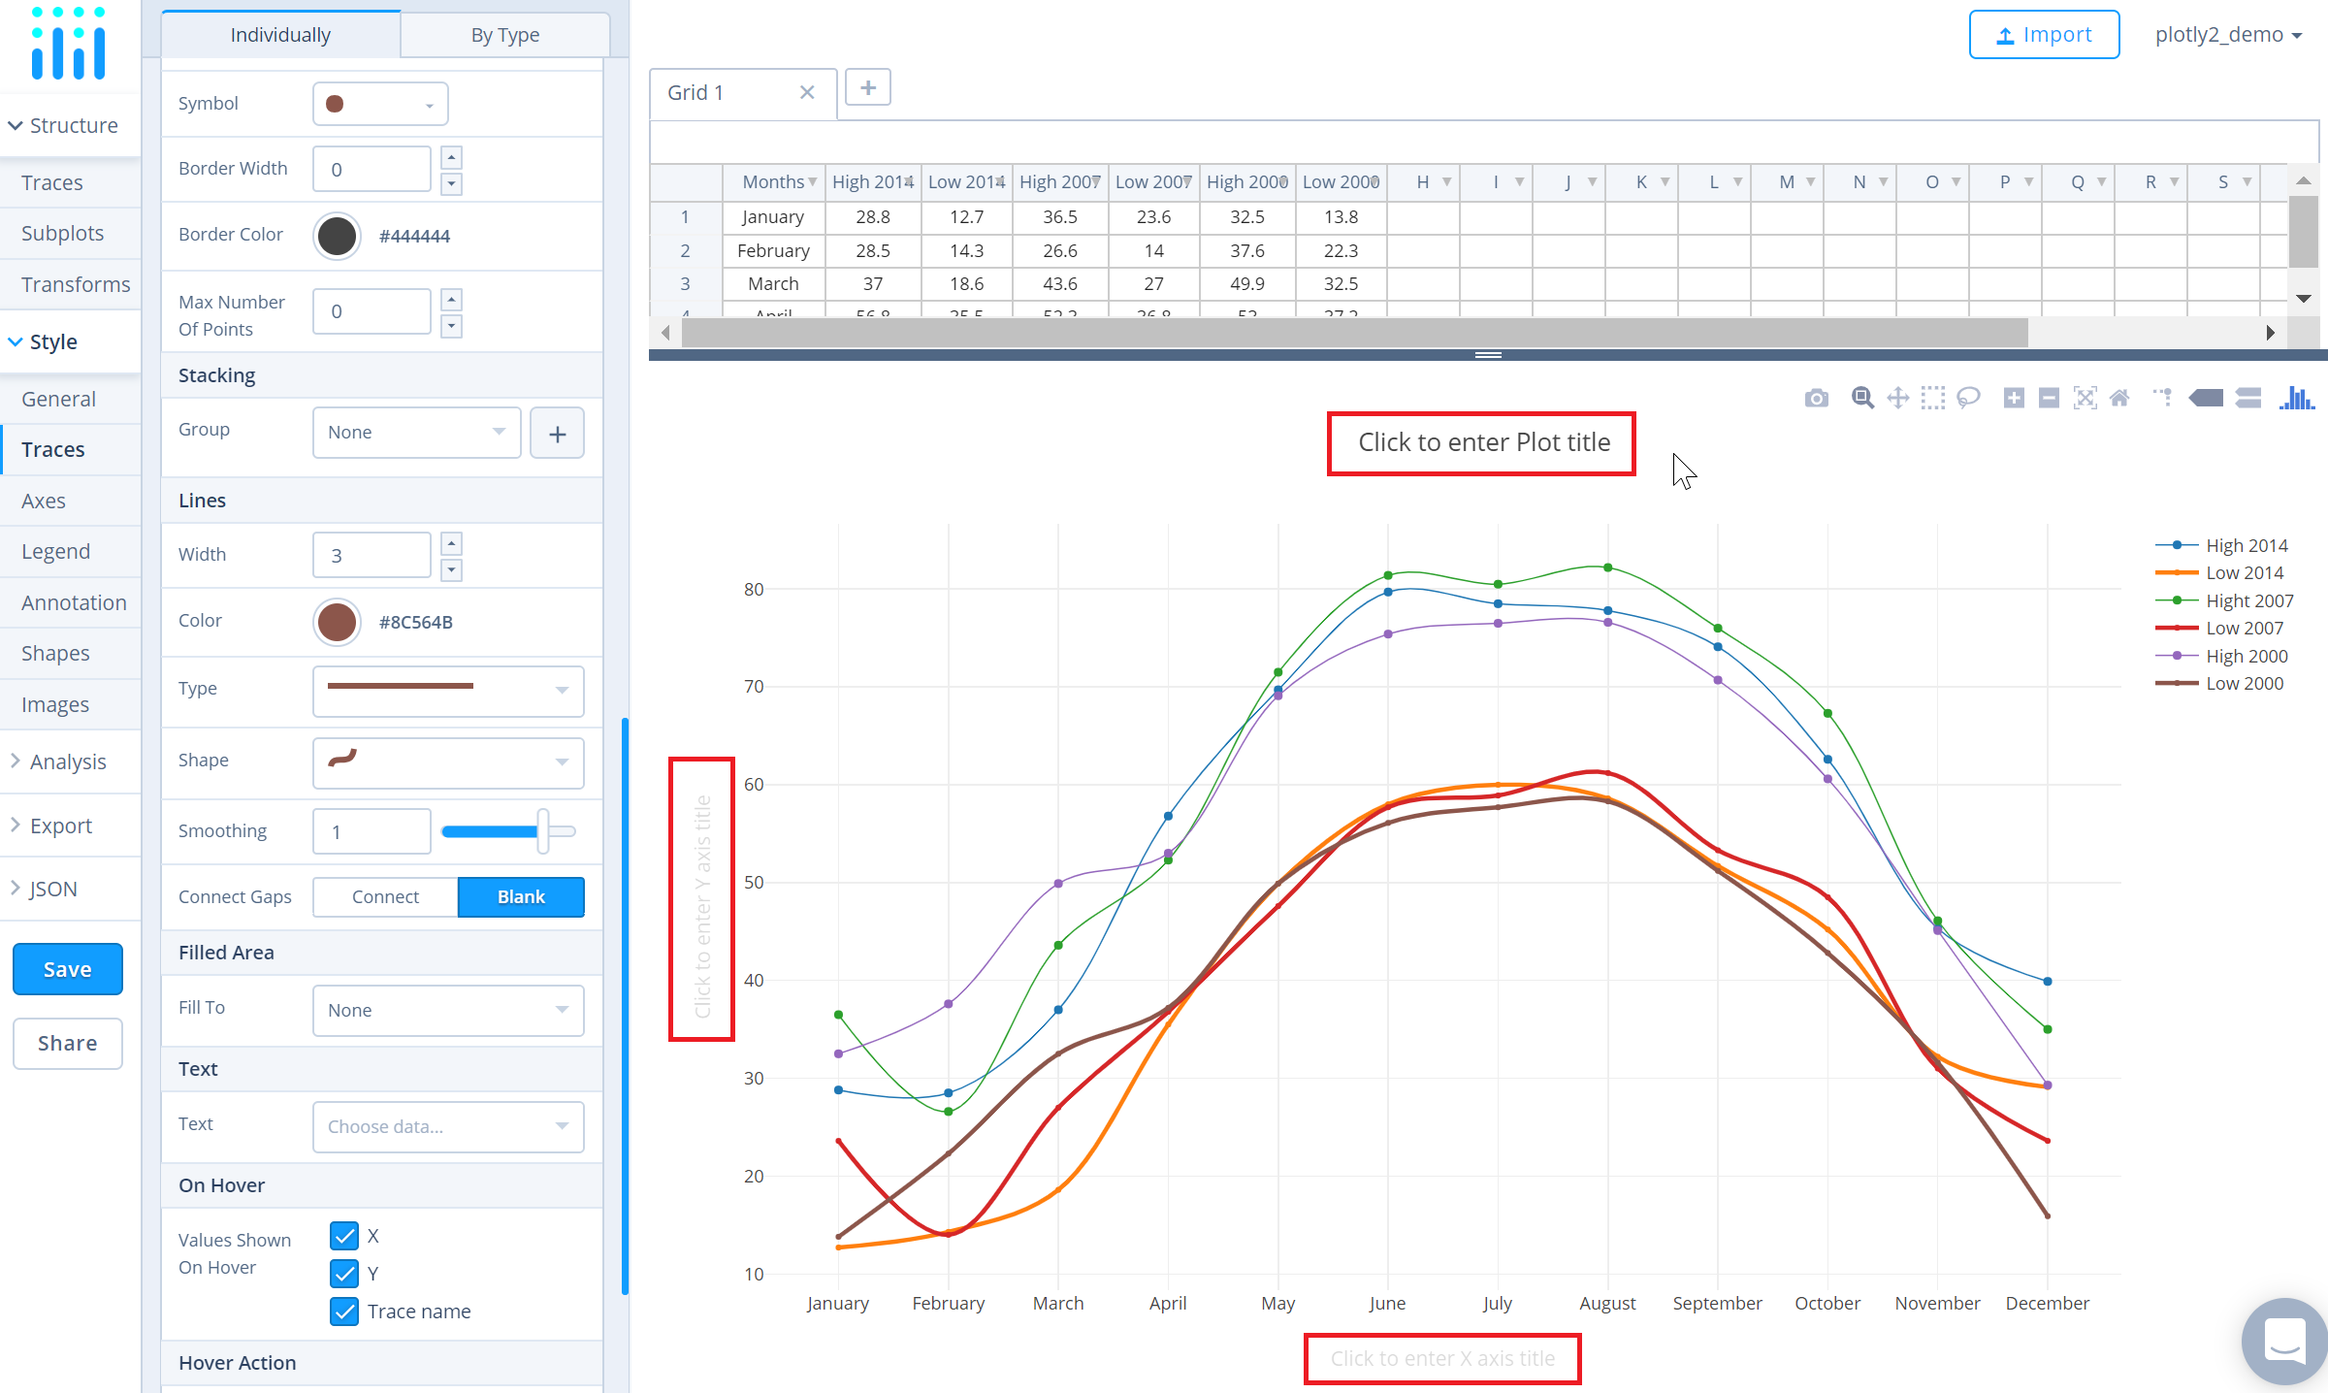
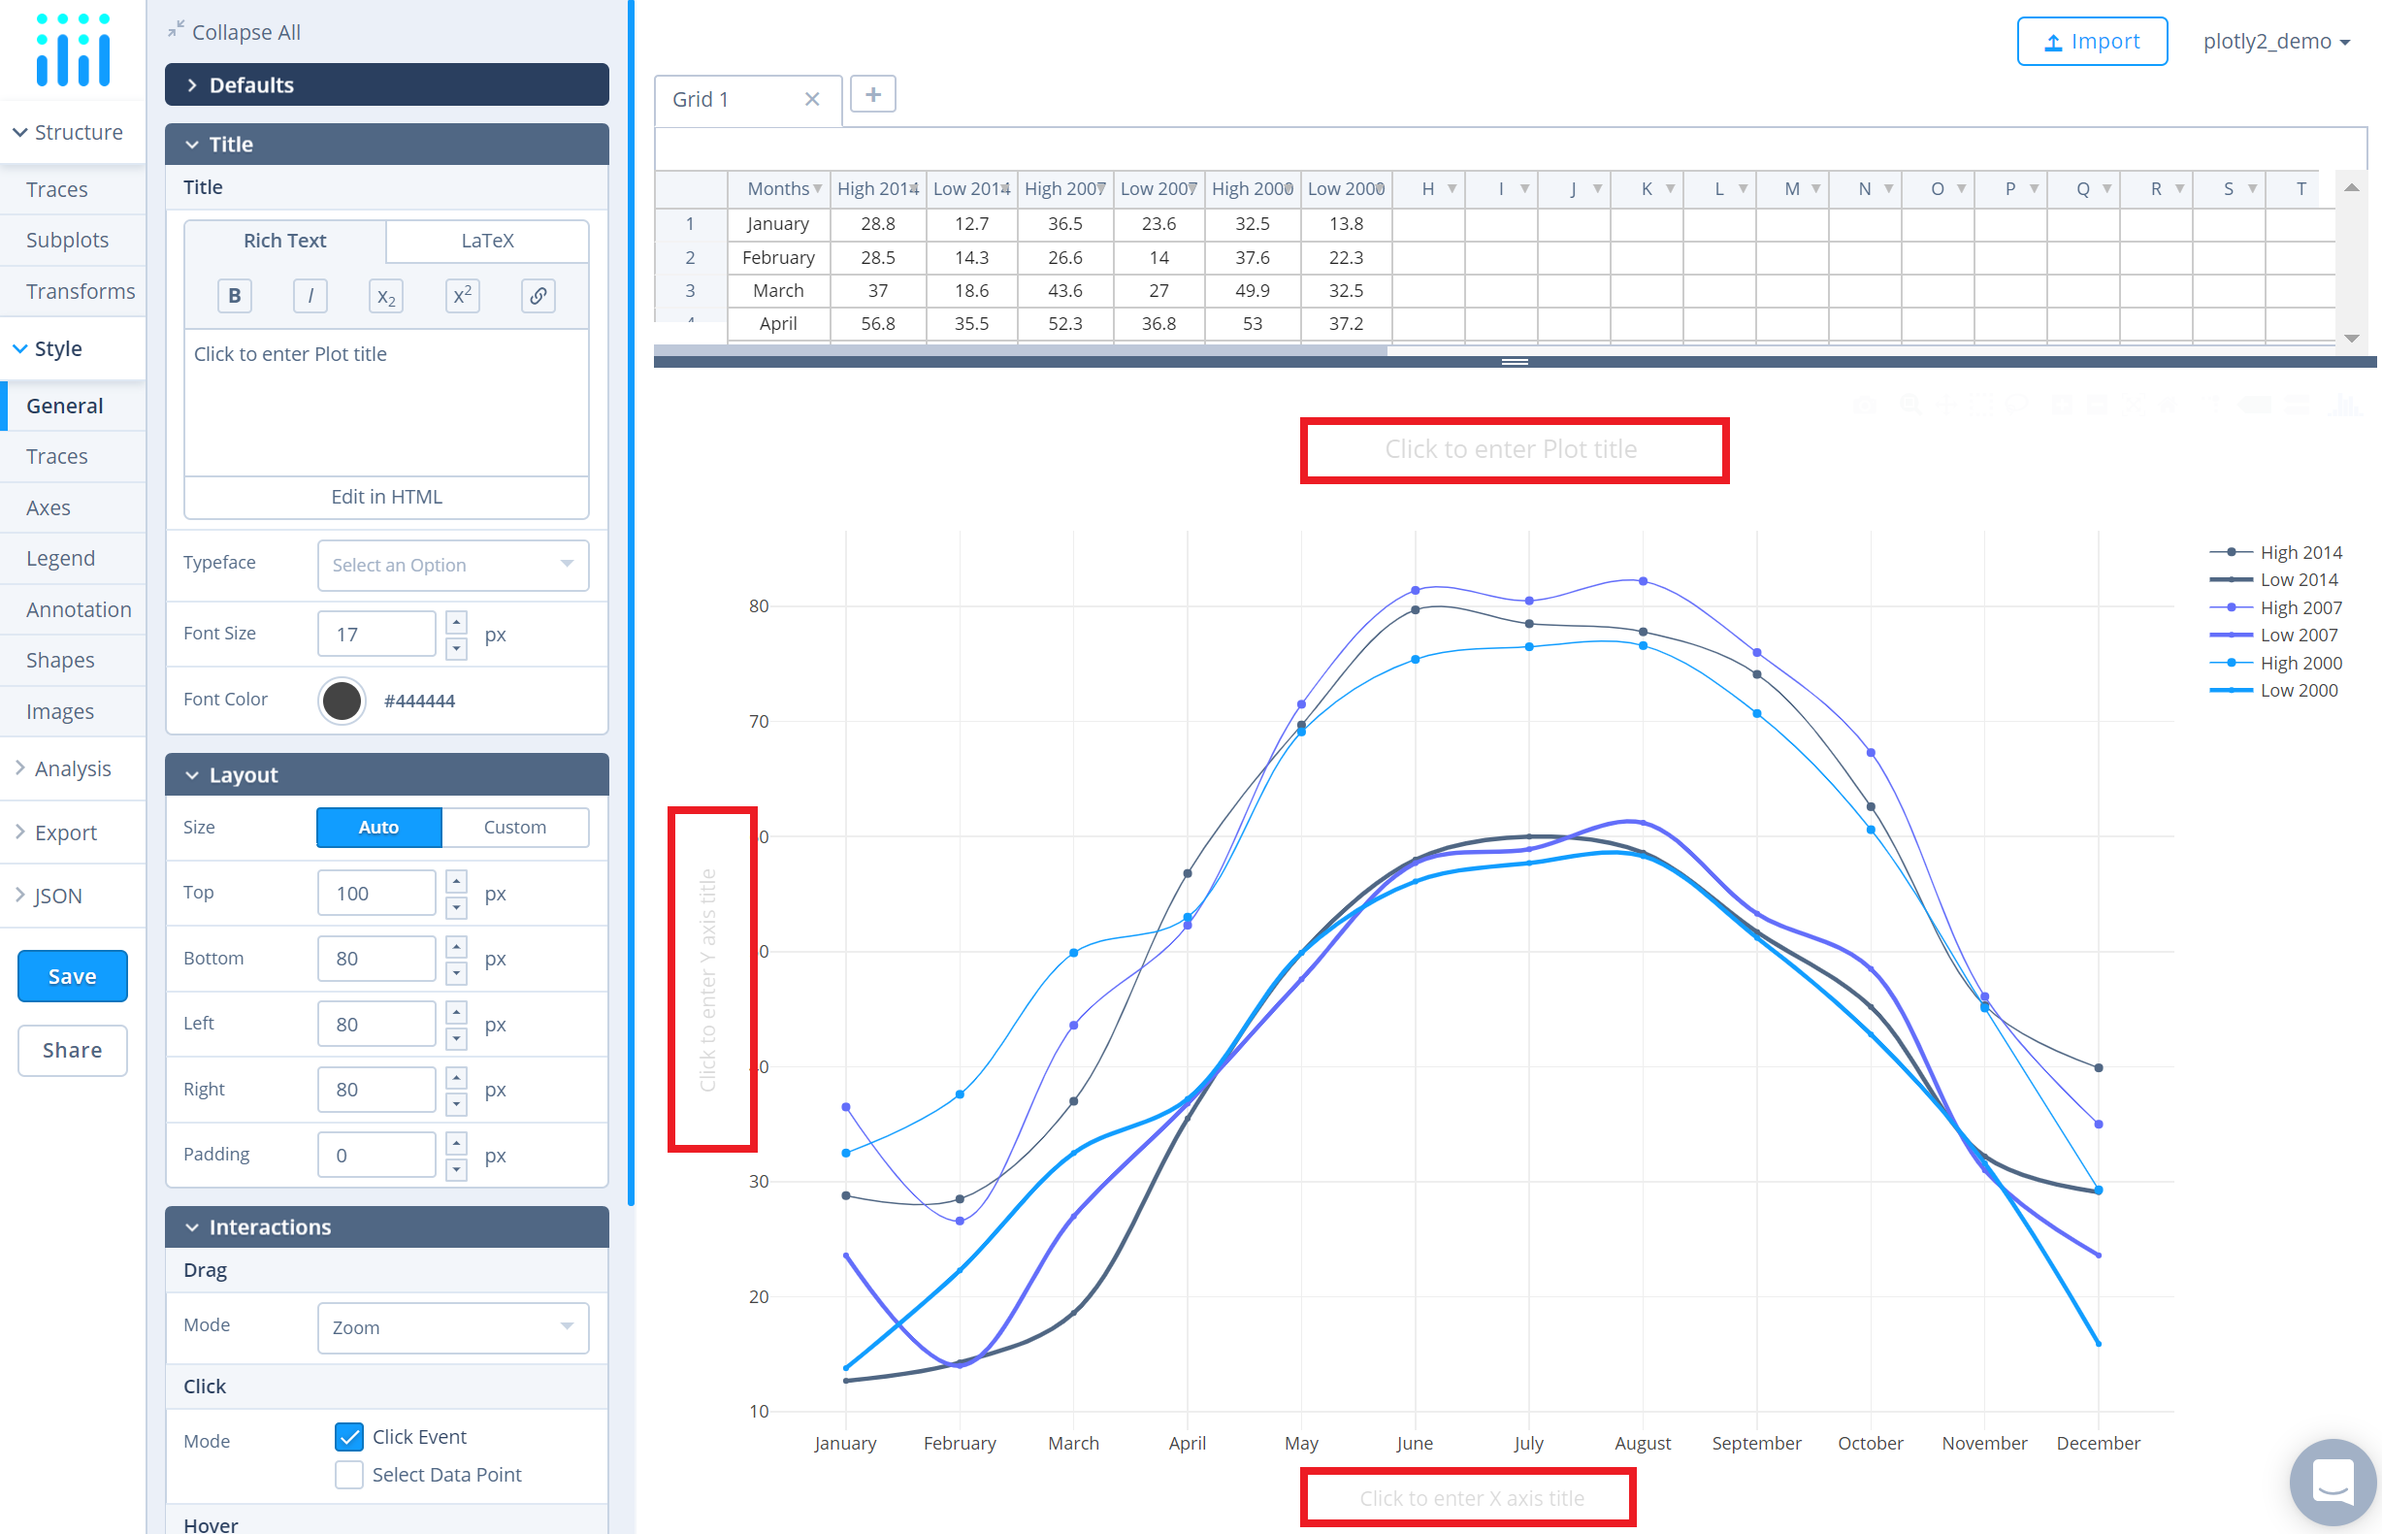
updated trace colors, and corrections from review

diff --git a/_posts/basic/2016-07-14-how-to-make-a-line-and-scatter-plot.md b/_posts/basic/2016-07-14-how-to-make-a-line-and-scatter-plot.md
@@ -53,9 +53,9 @@ steps:
     - copy: "To change the properties of the traces, go to the 'Traces' section under the 'Style' menu."
     - copy: "To set the trace names, type the name in the textbox provided under 'Name' property for each trace. Note that updating the trace name will update the legends as well."
       img: "![Trace Name](../static/images/line-graph-and-scatter-plot-with-excel/linescatter-trace-name.gif)"
-    - copy: "To add a line that connects the markers in a scatter trace, click the checkbox corresponding to 'Lines' under the 'Display' option."
+    - copy: "To display a line that connects the markers in a scatter trace, click the checkbox corresponding to 'Lines' under the 'Display' option."
       img: "![Display Lines](../static/images/line-graph-and-scatter-plot-with-excel/add-lines-to-scatter.png)"
-    - copy: "Similarly, to add markers that represent the data points in a line trace, click the checkbox corresponding to 'Points' under the 'Display' option."
+    - copy: "Similarly, to display markers along the line, click the checkbox corresponding to 'Points' under the 'Display' option."
       img: "![Display Points](../static/images/line-graph-and-scatter-plot-with-excel/add-points-to-line.png)"
     - copy: "To change the color of the traces, click on the color palette as seen below. "
       img: "![Colour main](../static/images/line-graph-and-scatter-plot-with-excel/linescatter-colour-panel.png)"
@@ -67,6 +67,6 @@ steps:
  - title: Save and Share
    sub-steps:
     - copy: "To save the plot click the 'Save' button on the left-hand side. A save modal will appear, as seen below, where you can specify the filenames and privacy settings for your plot and data grid."
-      img: "![Save main](../static/images/line-graph-and-scatter-plot-with-excel/scatter-save-main.png)"
+      img: "![Save main](../static/images/line-graph-and-scatter-plot-with-excel/linescattter-save-main.png)"
     - copy: "For more information on privacy settings and how sharing works, visit Plotly's [sharing tutorial](http://help.plot.ly/save-share-and-export-in-plotly/)."
 ---

diff --git a/_posts/basic/2016-06-30-how-to-make-a-line-graph.md b/_posts/basic/2016-06-30-how-to-make-a-line-graph.md
@@ -33,7 +33,7 @@ steps:
  - title: Create a Chart
    sub-steps:
     - copy: "After adding data, go to the 'Traces' section under the 'Structure' menu on the left-hand side. Choose the 'Type' of trace, then choose 'Line' under 'Simple' chart type."
-      img: "![Choose chart main](../static/images/line-graph-and-scatter-plot-with-excel/line-choose-chart-main.png)"
+      img: "![Choose chart main](../static/images/line-graph-and-scatter-plot-with-excel/line-choose-chart.png)"
     - copy: "Next, select 'X' and 'Y' values from the dropdown menus. This will create a line trace, as seen below."
       img: "![Adding x and y axis](../static/images/line-graph-and-scatter-plot-with-excel/line-import-data.png)"
 
@@ -42,7 +42,7 @@ steps:
     - copy: "The 'Style' menu displays many options to modify characteristics of the overall chart layout or the individual traces. To see more options about styling the chart visit the [style and layout](https://help.plot.ly/tutorials/#layout) section of the Chart Studio documentation."
     - copy: "To change the properties of the line trace, go to the 'Traces' section under the 'Style' menu."
       img: "![Colour main](../static/images/line-graph-and-scatter-plot-with-excel/line-colour-panel.gif)"
-    - copy: "To add markers that represents data points of the line trace, click the checkbox corresponding to 'Points' under the 'Display' option."
+    - copy: "To display markers along the line, click the checkbox corresponding to 'Points' under the 'Display' option."
       img: "![Markers in Line](../static/images/line-graph-and-scatter-plot-with-excel/points-line.gif)"
     - copy: "To set the plot title, go to the 'General' section under the 'Style' menu and type in the plot title within the textbox provided under 'Title'."
       img: "![Plot Title](../static/images/line-graph-and-scatter-plot-with-excel/line-title.png)"
